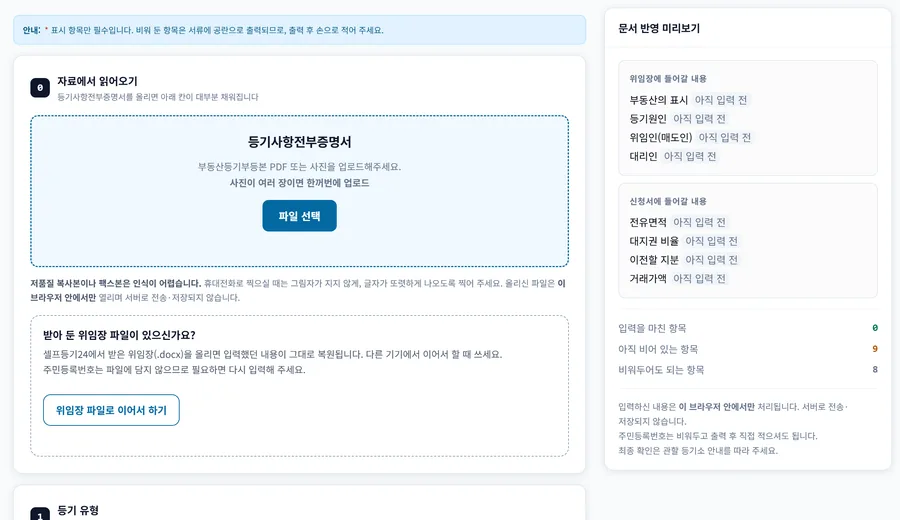
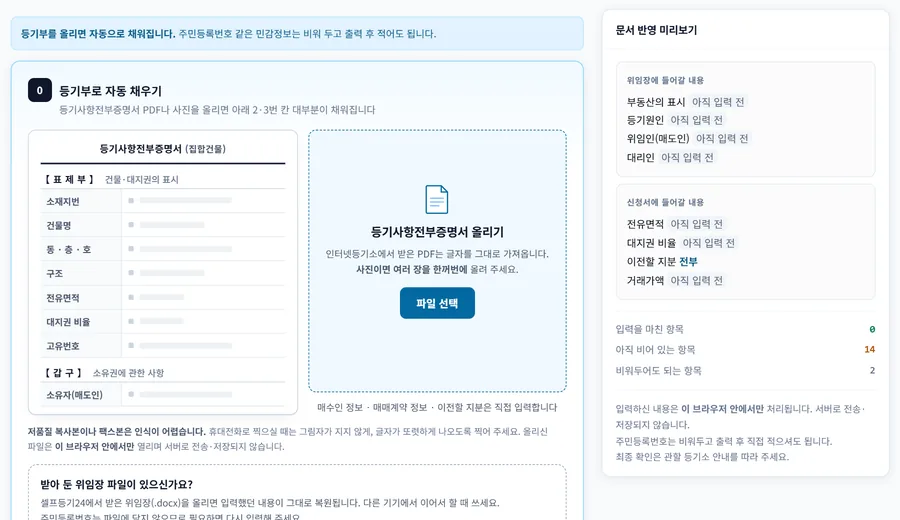
feat: 히어로 시연 자동 반복(화면 밖·다른 탭이면 정지, 다시 보기 제거), 데스크톱 캡처를 현재 서류 작성 화면으로 교체(미니 등기부 8칸+미리보기 채움), 요금 배지·하단 문구 한 줄, 공동명의 요금 설명

diff --git a/index.html b/index.html
@@ -146,26 +146,26 @@ header{background:var(--bg)}
 /* 시연 레이어 — 좌표는 캡처 1800×1040 기준 %. 글자 크기는 프레임 폭(cqw) 비례라 캡처 글씨와 같이 줄어든다 */
 #hapanel-transfer{position:relative;container-type:inline-size}
 .hd{position:absolute;inset:0;pointer-events:none;font-family:inherit}
-.hd-dz{position:absolute;left:3.4%;top:22.2%;width:59.8%;height:29.1%;border:2px solid #0369A1;border-radius:1cqw;background:rgba(3,105,161,.07);opacity:0;transition:opacity .25s}
-.hd-file{position:absolute;left:58%;top:78%;display:flex;align-items:flex-start;opacity:0;transform:translate(-50%,-50%);transition:left 1.1s cubic-bezier(.4,0,.2,1),top 1.1s cubic-bezier(.4,0,.2,1),opacity .3s,transform .3s}
+.hd-dz{position:absolute;left:34.3%;top:25%;width:28.6%;height:50.5%;border:2px solid #0369A1;border-radius:1cqw;background:rgba(3,105,161,.07);opacity:0;transition:opacity .25s}
+.hd-file{position:absolute;left:80%;top:88%;display:flex;align-items:flex-start;opacity:0;transform:translate(-50%,-50%);transition:left 1.1s cubic-bezier(.4,0,.2,1),top 1.1s cubic-bezier(.4,0,.2,1),opacity .3s,transform .3s}
 .hd-doc{display:inline-flex;align-items:center;gap:.6cqw;background:#fff;border:1px solid #CBD5E1;border-radius:.6cqw;padding:.6cqw 1cqw;font-size:1.05cqw;font-weight:700;color:#0F172A;white-space:nowrap;box-shadow:0 6px 16px rgba(15,23,42,.18)}
 .hd-doc i{font-style:normal;font-size:.8cqw;font-weight:800;color:#fff;background:#DC2626;border-radius:.3cqw;padding:.15cqw .4cqw}
 .hd-cur{width:2cqw;height:2cqw;margin:1.6cqw 0 0 -.6cqw;filter:drop-shadow(0 1px 1px rgba(0,0,0,.25))}
-.hd-st{position:absolute;left:33.3%;top:47.4%;transform:translate(-50%,-50%);background:#0F172A;color:#fff;font-size:1.05cqw;font-weight:700;padding:.5cqw 1.2cqw;border-radius:2cqw;white-space:nowrap;opacity:0;transition:opacity .25s}
-.hd-v{position:absolute;height:3.1%;min-width:6.8%;display:flex;align-items:center;padding:0 .3cqw;background:#fff;color:#075985;font-size:1.12cqw;font-weight:700;white-space:nowrap;opacity:0;transform:translateY(.3cqw);transition:opacity .3s,transform .3s}
-.hd-n{position:absolute;left:95.6%;width:2.4%;height:3.2%;display:flex;align-items:center;justify-content:flex-end;background:#fff;font-family:'SFMono-Regular',Consolas,monospace;font-size:1.05cqw;font-weight:700;opacity:0}
+.hd-st{position:absolute;left:48.6%;top:68%;transform:translate(-50%,-50%);background:#0F172A;color:#fff;font-size:1.05cqw;font-weight:700;padding:.5cqw 1.2cqw;border-radius:2cqw;white-space:nowrap;opacity:0;transition:opacity .25s}
+.hd-v{position:absolute;height:3.1%;min-width:6.8%;display:flex;align-items:center;padding:0 .3cqw;background:#FCFCFB;color:#075985;font-size:1.12cqw;font-weight:700;white-space:nowrap;opacity:0;transform:translateY(.3cqw);transition:opacity .3s,transform .3s}
+/* 미니 등기부 칸(회색 자리 막대)을 덮는 값 */
+.hd-r{position:absolute;left:13.7%;width:17.8%;height:3.6%;display:flex;align-items:center;padding-left:.7cqw;background:#fff;color:#0F172A;font-size:1cqw;font-weight:600;white-space:nowrap;opacity:0;transition:opacity .25s}
+.hd-r.in{opacity:1}
+.hd-n{position:absolute;right:2.6%;width:3.6%;height:3.2%;display:flex;align-items:center;justify-content:flex-end;background:#fff;font-family:'SFMono-Regular',Consolas,monospace;font-size:1.05cqw;font-weight:700;opacity:0}
 .hd-n.b{color:#047857}.hd-n.a{color:#B45309}
 .hd-tag{position:absolute;right:1.2%;top:1.2%;font-size:.9cqw;font-weight:700;color:#475569;background:rgba(241,245,249,.92);border:1px solid #CBD5E1;border-radius:1cqw;padding:.25cqw .8cqw;opacity:0;transition:opacity .3s}
 .hd.on .hd-tag,.hd.on .hd-n{opacity:1}
 .hd.over .hd-dz{opacity:1}
-.hd.go .hd-file{left:33.3%;top:41%;opacity:1}
+.hd.go .hd-file{left:48.6%;top:47%;opacity:1}
 .hd.drop .hd-file{opacity:0;transform:translate(-50%,-50%) scale(.6)}
 .hd.read .hd-st{opacity:1}
 .hd-v.in{opacity:1;transform:none}
-.hd-re{position:absolute;right:1.2%;bottom:2%;font-family:inherit;font-size:12px;font-weight:700;color:#0F172A;background:#fff;border:1px solid #CBD5E1;border-radius:16px;padding:6px 12px;cursor:pointer;box-shadow:0 2px 6px rgba(15,23,42,.12)}
-.hd-re[hidden]{display:none}
-.hd-re:focus-visible{outline:2px solid var(--blue);outline-offset:2px}
-@media(max-width:700px){.hd,.hd-re{display:none!important}}
+@media(max-width:700px){.hd{display:none!important}}
 /* 모바일 시연(≤700px, 10/9): 서류 작성 화면 세로 캡처 3장 — 대기(m)·판독 완료(m2)·미리보기 시트(m3, 화면 상단 20%부터).
    좌표는 캡처 370×520 기준 %(Playwright로 실측). 캡처를 바꾸면 좌표도 다시 잰다. 값은 견본이다. */
 .hdm,.hdm-hit,.hdm-ctl{display:none}
@@ -202,9 +202,6 @@ header{background:var(--bg)}
   .hdm-x{left:81.4%;top:23.1%;width:13.5%;height:6.9%}
   .hdm-ctl{display:flex;gap:6px;position:absolute;right:8px;top:6px;z-index:3;align-items:center}
   .hdm-tag{font-size:11px;font-weight:700;color:#475569;background:rgba(241,245,249,.94);border:1px solid #CBD5E1;border-radius:10px;padding:2px 8px}
-  .hdm-re{font-family:inherit;font-size:12px;font-weight:700;color:#0F172A;background:#fff;border:1px solid #CBD5E1;border-radius:14px;padding:0 12px;min-height:28px;cursor:pointer;box-shadow:0 2px 6px rgba(15,23,42,.12)}
-  .hdm-re[hidden]{display:none}
-  .hdm-re:focus-visible{outline:2px solid var(--blue);outline-offset:2px}
 }
 @media(prefers-reduced-motion:reduce){.hdm *{transition:none!important;animation:none!important}}
 
@@ -217,7 +214,9 @@ header{background:var(--bg)}
 /* (미사용) 출시 기념 배지 — 2026-09-24 유료 전환으로 마크업 제거. 안내 무료(.price-free, 녹색)와 구분되도록 액센트 블루를 쓴다. */
 .price-launch{display:inline-block;font-size:12.5px;font-weight:800;color:#075985;background:#E0F2FE;border:1px solid #BAE6FD;padding:7px 15px;border-radius:20px;margin-bottom:14px}
 .price-was{font-size:19px;font-weight:700;color:var(--muted);text-decoration:line-through;text-decoration-thickness:1.5px}
-.price-free{display:inline-block;font-size:12.5px;font-weight:700;color:#047857;background:#ECFDF5;padding:7px 15px;border-radius:20px;margin-bottom:20px}
+.price-free{display:inline-block;font-size:12.5px;font-weight:700;color:#047857;background:#ECFDF5;padding:7px 15px;border-radius:20px;margin-bottom:20px;white-space:nowrap;max-width:100%}
+/* 한 줄 유지 — 두 줄로 꺾이면 알약 모양이 깨져 튀어 보인다(10/10). 좁은 폰은 글자를 줄여 맞춘다 */
+@media(max-width:400px){.price-free{font-size:11.5px;padding:6px 11px;letter-spacing:-.02em}}
 .price-row{display:flex;flex-wrap:wrap;align-items:baseline;justify-content:center;gap:4px 8px;margin-bottom:18px}
 .price-amt{font-size:40px;font-weight:900;color:var(--navy);letter-spacing:-.02em;white-space:nowrap}
 .price-amt em{font-style:normal;font-size:17px;font-weight:700;margin-left:2px}
@@ -378,7 +377,10 @@ header{background:var(--bg)}
 .dock{position:fixed;left:0;right:0;bottom:0;z-index:var(--z-bar);padding:0 14px calc(12px + env(safe-area-inset-bottom));pointer-events:none;opacity:0;visibility:hidden;transform:translateY(12px);transition:opacity .22s ease,transform .22s ease,visibility .22s}
 .dock.on{opacity:1;visibility:visible;transform:none}
 .dock-in{pointer-events:auto;max-width:1200px;margin:0 auto;display:flex;align-items:center;gap:14px;background:#fff;border:1px solid var(--border);border-radius:14px;box-shadow:0 12px 30px rgba(15,23,42,.14);padding:12px 14px}
-.dock-t{flex:1;min-width:0;font-size:13.5px;font-weight:700;color:var(--navy);letter-spacing:-.01em;word-break:keep-all}
+.dock-t{flex:1;min-width:0;font-size:13.5px;font-weight:700;color:var(--navy);letter-spacing:-.01em;word-break:keep-all;white-space:nowrap;overflow:hidden;text-overflow:ellipsis}
+/* 문구 한 줄 유지(10/10): 360px 폰은 버튼 여백을 줄여 맞추고, 360px 미만 소형 폰만 두 줄을 허용한다(말줄임으로 자르지 않는다) */
+@media(max-width:380px){.dock .dock-in{gap:8px}.dock .dock-cta{padding:0 11px}.dock .dock-t{letter-spacing:-.04em}}
+@media(max-width:359px){.dock .dock-t{white-space:normal}}
 .dock-b{flex:0 0 auto;display:flex;gap:8px}
 .dock-ghost,.dock-cta{display:inline-flex;align-items:center;min-height:44px;border-radius:10px;font-size:13.5px;font-weight:700;text-decoration:none;white-space:nowrap;transition:all .15s}
 .dock-ghost{padding:0 16px;border:1.5px solid var(--border);background:#fff;color:var(--navy)}
@@ -786,16 +788,22 @@ html.mnav-open,html.mnav-open body{overflow:hidden}
             <div class="hd-dz"></div>
             <div class="hd-file"><span class="hd-doc"><i>PDF</i>등기사항전부증명서.pdf</span><svg class="hd-cur" viewBox="0 0 24 24"><path d="M4 2l16 11-7 1.5L9.5 21z" fill="#0F172A" stroke="#fff" stroke-width="1.5" stroke-linejoin="round"/></svg></div>
             <div class="hd-st"></div>
-            <span class="hd-v" style="left:76.8%;top:17.4%">견본아파트 101동 1001호</span>
-            <span class="hd-v" style="left:77.2%;top:24.7%">홍길동</span>
-            <span class="hd-v" style="left:74.4%;top:41.1%">84.97㎡</span>
-            <span class="hd-v" style="left:75.8%;top:44.7%">43,210분의 52.8</span>
-            <span class="hd-v" style="left:75.8%;top:48.3%">소유권 전부</span>
-            <span class="hd-n b" style="top:61.4%" data-to="5">0</span>
-            <span class="hd-n a" style="top:65.4%" data-to="4">9</span>
+            <span class="hd-r" style="top:36.8%">서울특별시 ○○구 ○○동 100</span>
+            <span class="hd-r" style="top:41.5%">견본아파트</span>
+            <span class="hd-r" style="top:46.1%">101동 10층 1001호</span>
+            <span class="hd-r" style="top:50.7%">철근콘크리트구조</span>
+            <span class="hd-r" style="top:55.4%">84.97㎡</span>
+            <span class="hd-r" style="top:60%">43,210분의 52.8</span>
+            <span class="hd-r" style="top:64.7%">1101-0000-000000</span>
+            <span class="hd-r" style="top:74.1%">홍길동</span>
+            <span class="hd-v" style="left:76.5%;top:17.9%">견본아파트 제101동 제1001호</span>
+            <span class="hd-v" style="left:77%;top:25.1%">홍길동</span>
+            <span class="hd-v" style="left:74.1%;top:41.4%">84.97㎡</span>
+            <span class="hd-v" style="left:75.5%;top:45%">43,210분의 52.8</span>
+            <span class="hd-n b" style="top:61.7%">0</span>
+            <span class="hd-n a" style="top:65.7%">14</span>
             <span class="hd-tag">시연 · 견본 값</span>
           </div>
-          <button type="button" class="hd-re" hidden>다시 보기</button>
           <!-- 모바일 시연 레이어: PDF가 올라감 → 판독 → 하단 「문서 반영 미리보기」 막대 → 시트. 값은 견본이다. -->
           <div class="hdm" aria-hidden="true">
             <img class="hdm-b" src="hero_app_transfer_m2@1x.webp" srcset="hero_app_transfer_m2@1x.webp 370w, hero_app_transfer_m2.webp 740w" sizes="calc(100vw - 40px)" width="370" height="520" alt="" loading="lazy" decoding="async">
@@ -809,7 +817,7 @@ html.mnav-open,html.mnav-open body{overflow:hidden}
           </div>
           <button type="button" class="hdm-hit hdm-see" aria-label="문서 반영 미리보기 열기(견본)"></button>
           <button type="button" class="hdm-hit hdm-x" aria-label="미리보기 닫기" hidden></button>
-          <div class="hdm-ctl"><span class="hdm-tag">시연 · 견본 값</span><button type="button" class="hdm-re" hidden>다시 보기</button></div>
+          <div class="hdm-ctl"><span class="hdm-tag">시연 · 견본 값</span></div>
         </div>
         <div class="ha-panel" role="tabpanel" id="hapanel-cancel" aria-labelledby="hatab-cancel" hidden>
           <!-- 700px 아래에서는 세로 화면으로 바꾼다 — 가로 캡처를 335px 로 줄이면 글자가 읽히지 않는다(R2-A04와 같은 결함). -->
@@ -990,12 +998,12 @@ html.mnav-open,html.mnav-open body{overflow:hidden}
   <h2 class="sec-title">서류 자동완성은 부동산 1건에 9,900원입니다</h2>
   <p class="sec-sub">가이드·체크리스트·로드맵·관할 등기소 안내는 무료이고, 위임장·신청서를 내려받을 때 한 번만 결제합니다. <a href="cost.html">셀프등기 비용 비교 보기</a></p>
   <div class="price-box">
-    <div class="price-free">가이드 · 체크리스트 · 로드맵 · 관할 등기소 안내 무료</div>
+    <div class="price-free">가이드·체크리스트·로드맵·관할 등기소 안내 무료</div>
     <div class="price-row"><span class="price-amt">9,900<em>원</em></span><span class="price-per">/ 부동산 1건 · 부가세 포함</span></div>
     <ul class="price-list">
       <li>위임장 · 소유권이전등기신청서 · 매매목록(해당 시) 자동완성 (Word 파일)</li>
       <li>부동산 주소 기반 관할 등기소 자동 반영</li>
-      <li>공동명의(매도인·매수인 각 2인까지)도 같은 요금 — 신청서·위임장을 규정에 맞게 나눠 작성합니다 <a href="joint.html">공동명의 안내</a></li>
+      <li>공동명의(각 2인까지)도 결제는 한 번 — 신청서·위임장이 2부 필요하면 자동으로 나눠 작성합니다(e-Form은 신청서마다 따로 작성) <a href="joint.html">공동명의 안내</a></li>
       <li>결제일부터 30일, 동일 부동산 · 동일 매수인 재발급 무상</li>
       <li>추가 요금 없음 · 토스페이 결제</li>
     </ul>
@@ -1136,7 +1144,7 @@ html.mnav-open,html.mnav-open body{overflow:hidden}
 <!-- 하단 고정 CTA — 히어로를 지나면 나타난다. 표시 조건은 아래 스크립트에 있다. -->
 <div class="dock" id="dock" aria-label="빠른 이동" aria-hidden="true">
   <div class="dock-in">
-    <p class="dock-t">등기부 한 장이면 지금 시작할 수 있습니다</p>
+    <p class="dock-t">등기부 한 장으로 지금 시작하세요</p>
     <div class="dock-b">
       <a href="#guide-band" class="dock-ghost" onclick="trackDock('guide')">가이드 먼저 보기</a>
       <a href="#start" class="dock-cta" onclick="trackDock('start')">서류 작성 시작하기 →</a>
@@ -1438,77 +1446,62 @@ function trackDock(key){ try{ window.SR&&SR.track('dock_cta',{key:key}); }catch(
 function trackProof(){ try{ window.SR&&SR.track('guide_open',{from:'proof'}); }catch(e){} }
 </script>
 <script>
-/* ===== 실제 작성 화면 시연 (10/9) =====
-   화면에 보일 때 한 번 재생: 등기부 PDF를 끌어 와 놓기 → 판독 중 → 미리보기 값 다섯 칸 채움.
-   값은 견본. 700px 이하(세로 캡처)·동작 줄이기 설정에서는 재생하지 않는다. */
-(function(){
-  var hd=document.querySelector('.hd'), re=document.querySelector('.hd-re'); if(!hd) return;
-  var vs=[].slice.call(hd.querySelectorAll('.hd-v')), ns=[].slice.call(hd.querySelectorAll('.hd-n')),
-      st=hd.querySelector('.hd-st'), timers=[], played=false;
-  var reduce=window.matchMedia&&matchMedia('(prefers-reduced-motion: reduce)').matches;
+/* ===== 실제 작성 화면 시연 (10/9, 10/10 자동 반복) =====
+   보이는 동안 반복 재생하고, 화면 밖·다른 탭이면 멈춘다(IntersectionObserver).
+   동작 줄이기 설정이면 완료 화면만 둔다. 값은 견본이다. */
+function demoLoop(el, run, finish){
+  var timers=[], vis=false, paused=false;
   function at(ms,fn){ timers.push(setTimeout(fn,ms)); }
-  function reset(){
-    timers.forEach(clearTimeout); timers=[];
-    hd.className='hd'; vs.forEach(function(v){v.classList.remove('in');});
-    ns.forEach(function(n){ n.textContent=n.classList.contains('b')?'0':'9'; });
-    st.textContent=''; if(re) re.hidden=true;
-  }
-  function count(k){ ns.forEach(function(n){ n.textContent=n.classList.contains('b')?k:(9-k); }); }
-  function finish(){
-    hd.className='hd on read'; vs.forEach(function(v){v.classList.add('in');}); count(vs.length);
-    st.textContent='등기부에서 다섯 칸을 채웠습니다'; if(re) re.hidden=false;
-  }
-  function play(){
-    reset();
-    if(reduce){ finish(); return; }
-    hd.classList.add('on');
+  function stop(){ timers.forEach(clearTimeout); timers=[]; }
+  function cycle(){ stop(); if(!vis||paused) return; at(run(at), cycle); }
+  var api={ pause:function(){ paused=true; stop(); } };
+  if(matchMedia('(prefers-reduced-motion: reduce)').matches||!('IntersectionObserver' in window)){ finish(); return api; }
+  new IntersectionObserver(function(es){ es.forEach(function(e){
+    if(e.isIntersecting&&!vis){ vis=true; paused=false; cycle(); }
+    else if(!e.isIntersecting&&vis){ vis=false; stop(); }
+  }); },{threshold:.4}).observe(el);
+  return api;
+}
+/* 데스크톱: 등기부 PDF 끌어다 놓기 → 판독 중 → 미니 등기부 8칸 → 미리보기 4칸·집계 */
+(function(){
+  var hd=document.querySelector('.hd'); if(!hd||!window.matchMedia) return;
+  var rs=[].slice.call(hd.querySelectorAll('.hd-r')), vs=[].slice.call(hd.querySelectorAll('.hd-v')),
+      nb=hd.querySelector('.hd-n.b'), na=hd.querySelector('.hd-n.a'), st=hd.querySelector('.hd-st'), DONE=11, LEFT=14;
+  function count(k){ var d=Math.round(DONE*k/vs.length); nb.textContent=d; na.textContent=LEFT-d; }
+  function reset(){ hd.className='hd'; rs.concat(vs).forEach(function(v){ v.classList.remove('in'); }); count(0); st.textContent=''; }
+  function finish(){ hd.className='hd on read'; rs.concat(vs).forEach(function(v){ v.classList.add('in'); }); count(vs.length); st.textContent='등기부에서 칸을 채웠습니다'; }
+  demoLoop(hd, function(at){
+    reset(); hd.classList.add('on');
     at(150,function(){ hd.classList.add('go'); });
     at(1050,function(){ hd.classList.add('over'); });
-    at(1500,function(){ hd.classList.add('drop'); hd.classList.remove('over'); st.textContent='등기부를 읽는 중…'; hd.classList.add('read'); });
-    vs.forEach(function(v,k){ at(2300+k*320,function(){ v.classList.add('in'); count(k+1); }); });
-    at(2300+vs.length*320+200,finish);
-  }
-  if(re) re.addEventListener('click',function(){ play(); try{ window.SR&&SR.track('demo_replay'); }catch(e){} });
-  /* 탭을 소유권이전으로 되돌리면 다시 재생 */
-  var tab=document.getElementById('hatab-transfer');
-  if(tab) tab.addEventListener('click',function(){ if(played) play(); });
-  if(!('IntersectionObserver' in window)){ finish(); played=true; return; }
-  var io=new IntersectionObserver(function(es){
-    es.forEach(function(e){ if(e.isIntersecting&&!played){ played=true; play(); io.disconnect(); } });
-  },{threshold:.55});
-  io.observe(hd);
+    at(1500,function(){ hd.classList.add('drop','read'); hd.classList.remove('over'); st.textContent='등기부를 읽는 중…'; });
+    rs.forEach(function(r,k){ at(2100+k*140,function(){ r.classList.add('in'); }); });
+    var t=2100+rs.length*140+200;
+    vs.forEach(function(v,k){ at(t+k*320,function(){ v.classList.add('in'); count(k+1); }); });
+    t+=vs.length*320;
+    at(t,function(){ st.textContent='등기부에서 칸을 채웠습니다'; });
+    return t+3500;
+  }, finish);
 })();
-/* ===== 모바일 시연 (10/9) — 700px 이하에서만 =====
-   올리기 → 판독 → 「보기」 누름 → 미리보기 시트. 끝나면 이용자가 막대·「닫기」를 직접 눌러 열고 닫는다. */
+/* 모바일(700px 이하): 올리기 → 판독 → 「보기」 → 미리보기 시트. 이용자가 막대·「닫기」를 누르면 반복을 멈추고 직접 조작한다. */
 (function(){
-  var m=document.querySelector('.hdm'), see=document.querySelector('.hdm-see'), x=document.querySelector('.hdm-x'), re=document.querySelector('.hdm-re');
-  if(!m||!see||!x||!re||!window.matchMedia) return;
-  var mq=matchMedia('(max-width:700px)'), reduce=matchMedia('(prefers-reduced-motion: reduce)').matches, timers=[], played=false;
-  function at(ms,fn){ timers.push(setTimeout(fn,ms)); }
+  var m=document.querySelector('.hdm'), see=document.querySelector('.hdm-see'), x=document.querySelector('.hdm-x');
+  if(!m||!see||!x||!window.matchMedia) return;
   function sheet(on){ m.classList.toggle('sheet',on); see.hidden=on; x.hidden=!on; }
-  function done(){ timers.forEach(clearTimeout); timers=[]; m.className='hdm done'; sheet(false); re.hidden=false; }
-  function play(){
-    timers.forEach(clearTimeout); timers=[]; m.className='hdm'; sheet(false); re.hidden=true;
-    if(reduce){ done(); return; }
+  function finish(){ m.className='hdm done'; sheet(false); }
+  var loop=demoLoop(m, function(at){
+    m.className='hdm'; sheet(false);
     at(200,function(){ m.classList.add('go'); });
     at(1150,function(){ m.classList.add('over'); });
     at(1450,function(){ m.classList.remove('over'); m.classList.add('drop','read'); });
     at(3000,function(){ m.classList.add('done'); });
     at(3900,function(){ m.classList.add('tap'); });
-    at(4200,function(){ sheet(true); re.hidden=false; });
-  }
-  function trk(n,p){ try{ window.SR&&SR.track(n,p||{}); }catch(e){} }
-  see.addEventListener('click',function(){ if(!m.classList.contains('done')) done(); sheet(true); trk('demo_sheet'); });
-  x.addEventListener('click',function(){ sheet(false); see.focus(); });
-  re.addEventListener('click',function(){ play(); trk('demo_replay',{mode:'m'}); });
-  var tab=document.getElementById('hatab-transfer');
-  if(tab) tab.addEventListener('click',function(){ if(played&&mq.matches) play(); });
-  if(!mq.matches) return;
-  if(!('IntersectionObserver' in window)){ done(); played=true; return; }
-  var io=new IntersectionObserver(function(es){
-    es.forEach(function(e){ if(e.isIntersecting&&!played){ played=true; play(); io.disconnect(); } });
-  },{threshold:.55});
-  io.observe(m);
+    at(4200,function(){ sheet(true); });
+    return 4200+3500;
+  }, finish);
+  function trk(n){ try{ window.SR&&SR.track(n,{}); }catch(e){} }
+  see.addEventListener('click',function(){ loop.pause(); m.className='hdm done'; sheet(true); trk('demo_sheet'); });
+  x.addEventListener('click',function(){ loop.pause(); sheet(false); see.focus(); });
 })();
 </script>
 <script>
